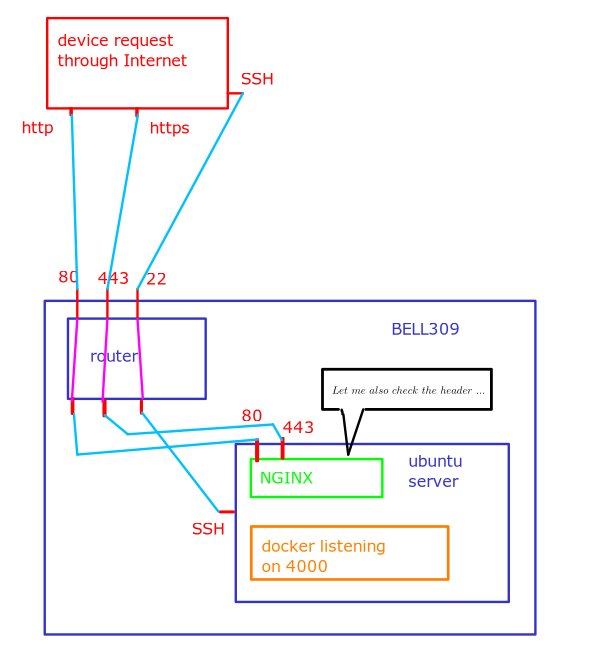
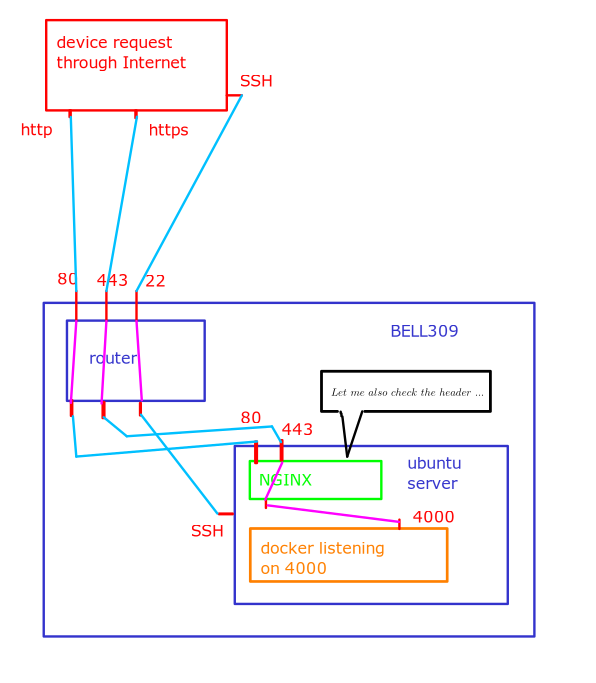
checked spelling and updated the visualization of port forwarding+reverse proxy

Changed region(s): [[0.0305, 0.0, 0.9137, 0.9653], [0.2741, 0.2112, 0.3655, 0.362]]

diff --git a/Topics/Development_Process/Ubuntu_server_edition/ubuntu.md b/Topics/Development_Process/Ubuntu_server_edition/ubuntu.md
@@ -1,26 +1,26 @@
-# Guide for setting up home server with Ubuntu Server Edition
+# Guide for setting up a home server with Ubuntu Server Edition
 
 ## Introduction
-If you ever developed a discord bot, you might wonder how things just work as long as we have the either python or javascript files running on our computer. That is because the either python or javascript are serving as the backend of the discord bot, and this also shows us that any computer can be used as a server.  
+If you ever developed a discord bot, you might wonder how things just work as long as we have either Python or javascript files running on our computer. That is because either Python or JavaScript program is serving as the backend of the discord bot, and this also shows us that any computer can be used as a server.  
 
-Thus instead of paying for cloud services such as AWS, turning a spare computer into a web server might be already enough for development purpose. Not only can you save the cost, but this also gains you some invaluable experience of server administration.And in this guide, I will be showing how this can be done with Ubuntu server edition, a popular and well-supported distro, and a piece of minimum hardware- a Raspberry pi 4b.
+Thus instead of paying for cloud services such as AWS, turning a spare computer into a web server might be already enough for development purposes. Not only can you save the cost, but this also gives you some invaluable experience in server administration. In this guide, I will be showing how this can be done with the Ubuntu server edition, a popular and well-supported distro, and a piece of minimum hardware- a Raspberry Pi 4b.
 
 ## Requirements
 
-Before we hop into the setup, we need to make sure we have everything we need: The device, ethernet access or WLAN which we also needs the access to the router setting.
+Before we hop into the setup, we need to make sure we have everything we need: The device, ethernet access or WLAN which we also need access to the router setting.
 
 ## About Ubuntu Server LTS 20.04
-Ubuntu is a famous Linux distribution based on Debian. While unlike the standard edition which comes with display manager, desktop environment, daily software such as libreoffice, the server edition comes with minimum installation, only stuffs like apache2 which are needed to run a minimum server. It will be a very different experience if one worked only in a desktop environment, since we will be working in ttys(teletype writer, but takes it for terminal for simplicity) the most of the time.
+Ubuntu is a famous Linux distribution based on Debian. Unlike the standard edition which comes with a display manager, desktop environment, and daily software such as LibreOffice, the server edition comes with minimum installation, only stuff like apache2 which is needed to run a minimum server. It will be a very different experience if one works only in a desktop environment since we will be working in ttys(teletypewriter, but take it for a terminal for simplicity) most of the time.
 ![Alt text](Assets/IMG_20240315_021624_8542.jpg)
 
 ## Installation of the OS
 
-Depending on the device, there are two usual options. If it is something like x86_64, one can download and flash the image to a drive and then live boot into the target device, following the instruction to install it. Or if it is arm like I did on my rpi4b, the image needs to be flashed into the SD card and no installation is needed. 
+Depending on the device, there are two usual options. If it is something with the architecture of x86_64, one can download and flash the image to a drive and then live boot it into the target device, following the instructions to install it. Or if it is arm like I did on my rpi4b, the image needs to be flashed into the SD card and there is the option of pre-installed ones. 
 
 ## Connection to Internet
-The very first task that needs to be completed after the installation of the system is to connect to the Internet. And by connect to Internet I mean two way: both that the device can access the Internet and accessed from the Internet.  
+The very first task that needs to be completed after the installation of the system is to connect to the Internet. And by connecting to the Internet I mean two-way: both that the device can access the Internet and accessed from the Internet.  
 
-Let's begin writh accessing the Internet. There are two options as well, either ethernet cable or WLAN. The second one is the tricky one, as there is no for example a button you can click on and having a graphic Interface you can see all the ssid and just input password. The default way to connect wirelessly is a tool so called "netplan" and the configuration is located at `/etc/Netplan/` where we can see a yaml file. Use `sudo nano <xxx.yaml>` to edit it in the following format:
+Let's begin with accessing the Internet. There are two options as well, either ethernet cable or WLAN. The second one is the tricky one, as there is no for example a button you can click on and a graphic Interface where you can see all the SSIDs and just input the password. The default way to connect wirelessly is a tool so-called "netplan" and the configuration is located at `/etc/Netplan/` where we can see a YAML file. Use `sudo nano <xxx.yaml>` to edit it in the following format:
 
 ```
 # This file is generated from information provided by the datasource.  Changes
@@ -39,14 +39,14 @@ network:
             dhcp4: true  
 
 ```
-replace "BELL309" with the actual SSID and password as the corresponding password. press `ctrl+o` and `ctrl+x` to save and exit nano. After that `sudo netplan -debug generate` to check if there is any syntax error in the yaml. After verification is done `sudo reboot` to reboot. After reboot, the system shall automactically connect to the WLAN. use `ip a` or `ping google.com` to verify.  
+replace "BELL309" with the actual SSID and password as the corresponding password. press `ctrl+o` and `ctrl+x` to save and exit nano. After that `sudo netplan -debug generate` to check if there is any syntax error in the yaml. After verification is done `sudo reboot` to reboot. After reboot, the system shall automatically connect to the WLAN. use `ip a` or `ping google.com` to verify.  
 
-Great, next, as a server, we also needs to make sure that the device is accessible from the Internet. This requires port forwarding from the router.
-In browser of another computer, log into the router through its private ip address in the local area network. 
+Great, next, as a server, we also need to make sure that the device is accessible from the Internet. This requires port forwarding from the router.
+In the browser of another computer, log into the router through its private IP address in the local area network. 
 ![Alt text](Assets/port.png)
-Then in "Port forwarding", select the device either from device name or local ip address(192.168.x.x) and set up a few ports fowarding we need. For example, 22 for ssh, 80 for http, and 443 for https. After saving the configuration, we can try access the global ip of the browser(You can figure this one out really quick by googling "ip" on any other device connected to the same network) like the following: 
+Then in "Port forwarding", select the device either from the device name or local IP address(192.168.x.x) and set up a few port forwarding rules we need. For example, 22 for SSH, 80 for HTTP, and 443 for HTTPS. After saving the configuration, we can try accessing the global IP of the router on a browser(You can figure this one out quickly by googling "ip" on any other device connected to the same network) like the following: 
 ![Alt text](Assets/image.png)
-If you can see such a page, congratulation, your server is now also accessible from Internet.
+If you can see such a page, congratulations, your server is now also accessible from the Internet.
 ## Installation of necessary tools using apt
 
 After making sure that the device can access the internet, the next step is to install the packages we need. The easiest way to do that in a tty is to use the package manager.
@@ -58,17 +58,17 @@ $ sudo apt install git
 ```
 
 ## SSH
-In order for ssh to work, we need to first enable it. After installing the package which should automatically enable the service as in previous step, `sudo systemctl status ssh` to double check. If it's blocked by UFW, `sudo ufw allow ssh`.  
+In order for ssh to work, we need to first enable it. After installing the package which should automatically enable the service as in the previous step, `sudo systemctl status ssh` to double check. If it's blocked by UFW, `sudo ufw allow ssh`.  
 
 To ssh from another device, in the other device's terminal
 `ssh <username>@<ip address of the router>` like this:  
 
 ![Alt text](Assets/ssh.png)
-and work the same way as in tty but copy pasting would be much more convenient since on the host device there is only terminal based browser and no cursor.
+and work the same way as in tty but copy-pasting would be much more convenient since on the host device there is only a terminal-based browser and no cursor.
 
 ## Web Server Example
 
-As a server, it needs to serve something. The most common thing to serve would be an web app. For example, I have a web app running in a docker and listening on port 4000 on this device, while port forwarding directly from 80 to 4000 on router would technically work, it is recommended to have a web server that does the reverse proxy. Let's take nginx for example, detailed setup of nginx can be found here: https://learning-software-engineering.github.io/Topics/Development_Process/Nginx.html. After nginx is up with valid ssl certificate, the web app would become avaiable to Internet over ip address/ domain(which requires DNS setup in both the domain provider and nginx).  
+As a server, it needs to serve something. The most common thing to serve would be a web app. For example, I have a web app running in a docker and listening on port 4000 on this device, while port forwarding directly from 80 to 4000 on the router would technically work, it is recommended to have a web server that does the reverse proxy. Let's take nginx for example, detailed setup of nginx can be found here: https://learning-software-engineering.github.io/Topics/Development_Process/Nginx.html. After Nginx is up with a valid SSL certificate, the web app would become available to the Internet over an IP address or a domain(which requires DNS setup in both the domain provider and nginx).  
 
 ![Alt text](Assets/nginx.png)
 
@@ -77,11 +77,15 @@ As a server, it needs to serve something. The most common thing to serve would b
 #### nginx
 https://learning-software-engineering.github.io/Topics/Development_Process/Nginx.html
 
-#### obtaining ssl certicificate using certbot
+#### Obtaining SSL certificates using certbot
 
 https://certbot.eff.org/pages/about
 
 #### DuckDNS to deal with dynamic DNS
 
 https://learning-software-engineering.github.io/Topics/Development_Process/Duckdns.html
+
+#### Full Ubuntu 20.04 Server Documentation
+
+https://assets.ubuntu.com/v1/544d9904-ubuntu-server-guide-2024-01-22.pdf
 
